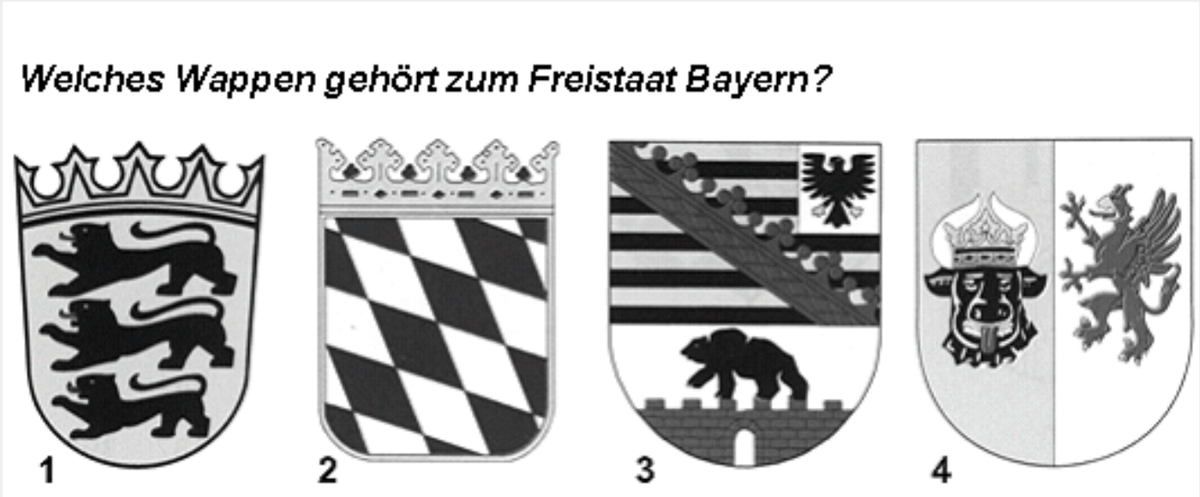
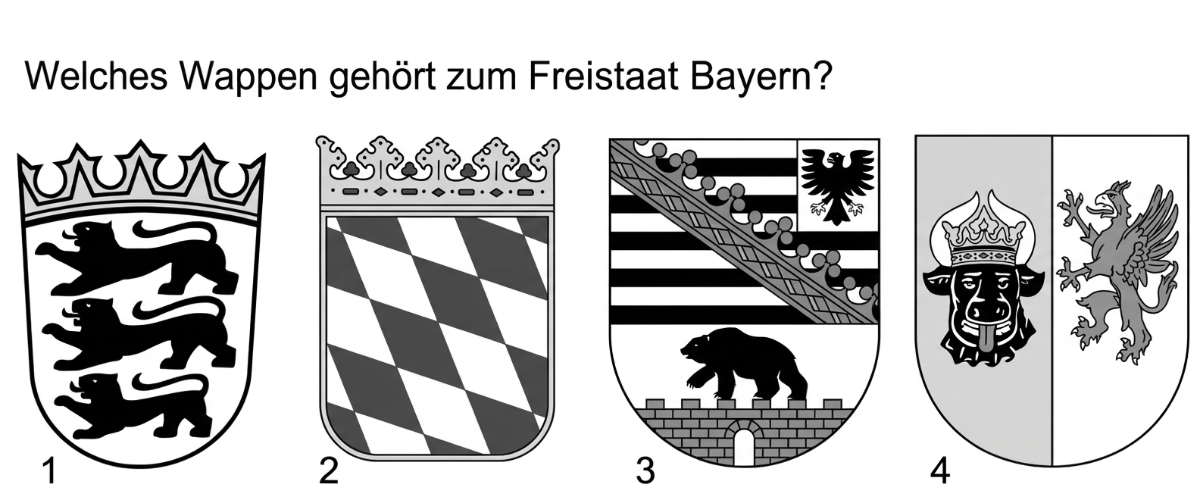
Replace Bavaria image with corrected redraw

diff --git a/README.md b/README.md
@@ -38,7 +38,7 @@ No web server is required; `data/questions.js`, `data/vocabulary.js` and `data/i
[1 lines of base64/hex data omitted]
   <https://www.bamf.de/SharedDocs/Anlagen/DE/Integration/Einbuergerung/gesamtfragenkatalog-lebenindeutschland.html?nn=284310>
 - **Answers, English translations, explanations and images**: [abdullahbutt/leben-in-deutschland-test](https://github.com/abdullahbutt/leben-in-deutschland-test), version 2026-10-28. **The German question and option wording is taken verbatim from the official BAMF PDF**; the dataset supplies the answer key, English translations, explanations and images. The translations and explanations are licensed under **CC BY-NC 4.0** (attribution, non-commercial use). `data/overrides.json` contains manual corrections for the few items where the dataset described a different paraphrase (e.g. B232, B247, HB02, SN07).
-- **Redrawn images**: `data/images/21.png`, `data/images/55.png`, `data/images/70.png`, `data/images/130.png`, `data/images/176.png`, `data/images/181.png`, `data/images/187.png`, `data/images/209.png`, `data/images/216.png`, `data/images/226.png`, `data/images/235.png`, `data/images/301-baden-wuerttemberg.png`, `data/images/301-berlin.png`, `data/images/301-brandenburg.png`, `data/images/301-bremen.png` and `data/images/301-hessen.png` are redrawn replacements added for this project; the remaining images come from the dataset.
+- **Redrawn images**: `data/images/21.png`, `data/images/55.png`, `data/images/70.png`, `data/images/130.png`, `data/images/176.png`, `data/images/181.png`, `data/images/187.png`, `data/images/209.png`, `data/images/216.png`, `data/images/226.png`, `data/images/235.png`, `data/images/301-baden-wuerttemberg.png`, `data/images/301-bayern.png`, `data/images/301-berlin.png`, `data/images/301-brandenburg.png`, `data/images/301-bremen.png` and `data/images/301-hessen.png` are redrawn replacements added for this project; the remaining images come from the dataset.
 - **BB01 answer correction**: the official BAMF page shows the Brandenburg eagle as **Bild 1**; `data/overrides.json` pins `correct: 0`, overriding the dataset's incorrect Bild 4 mapping.
 - This is an independent learning app, not an official BAMF product. Use is intended for personal, non-commercial exam preparation.
 
